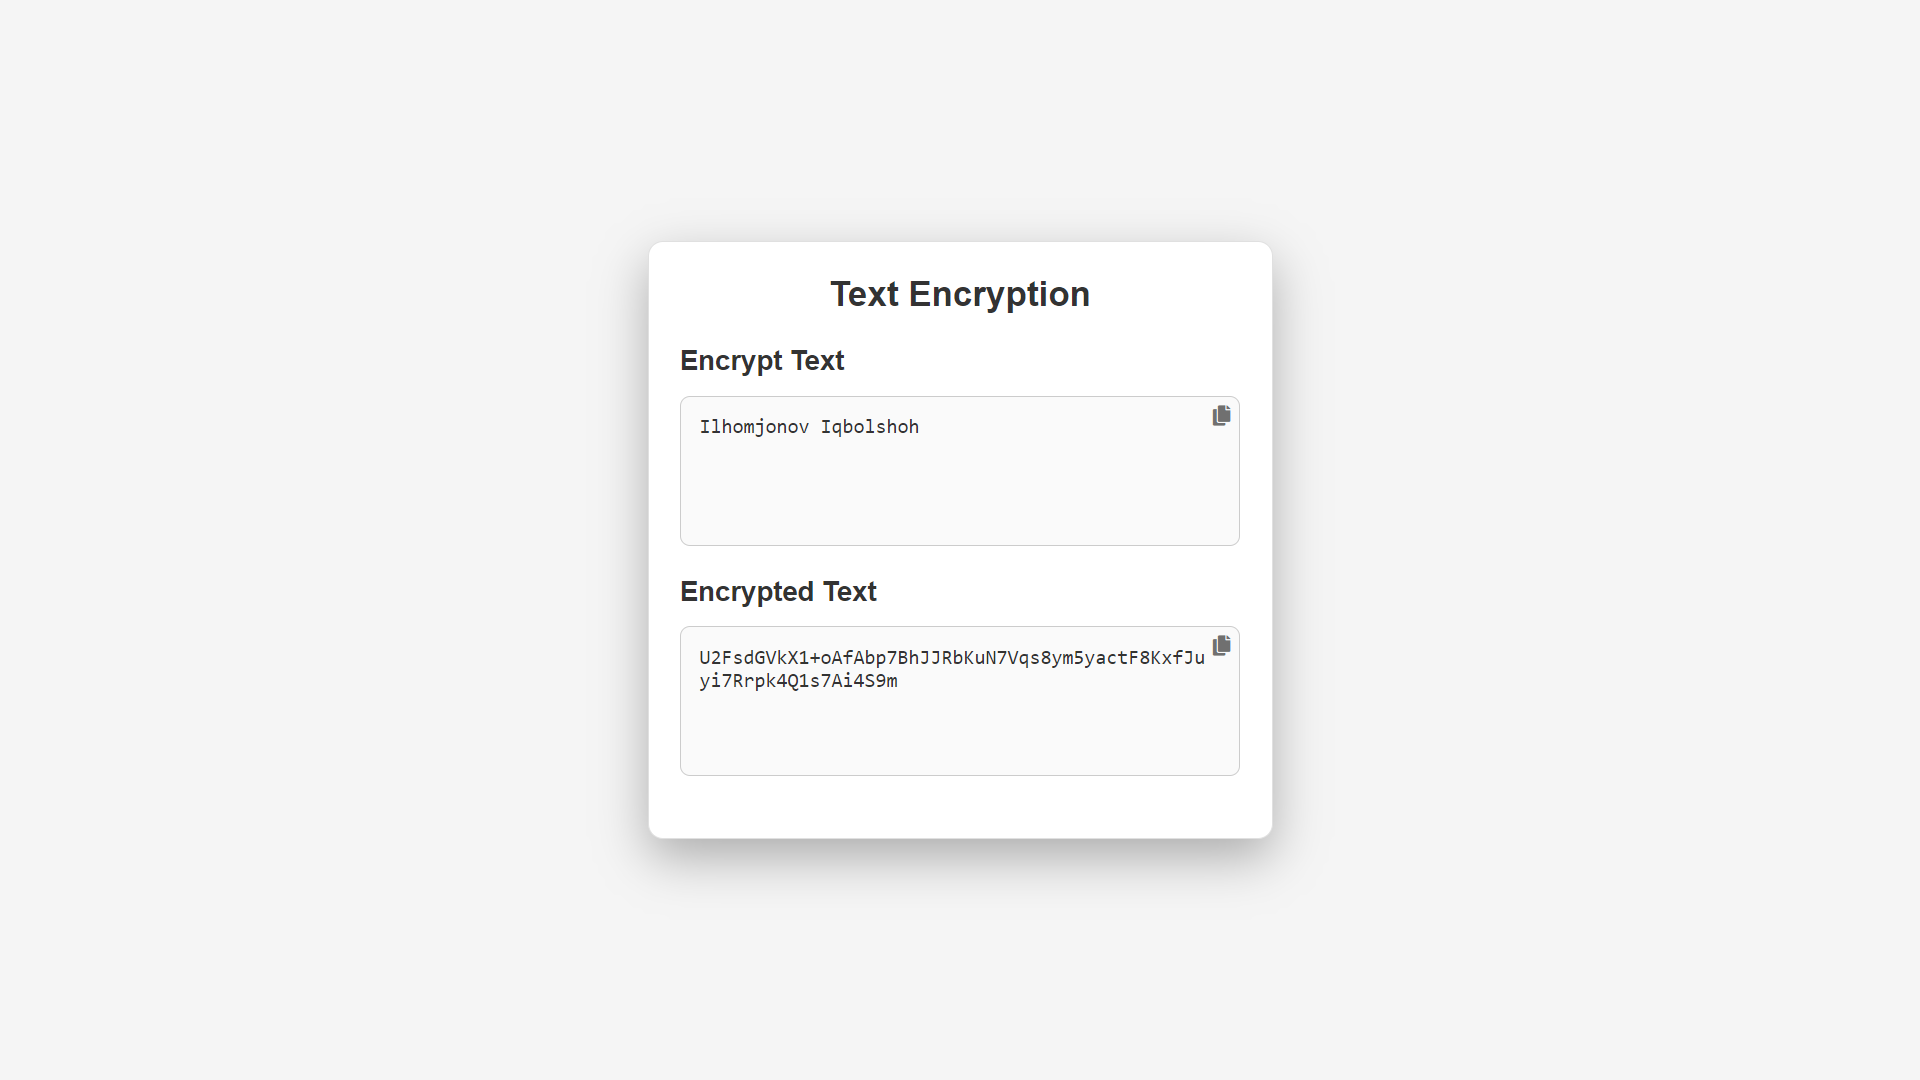
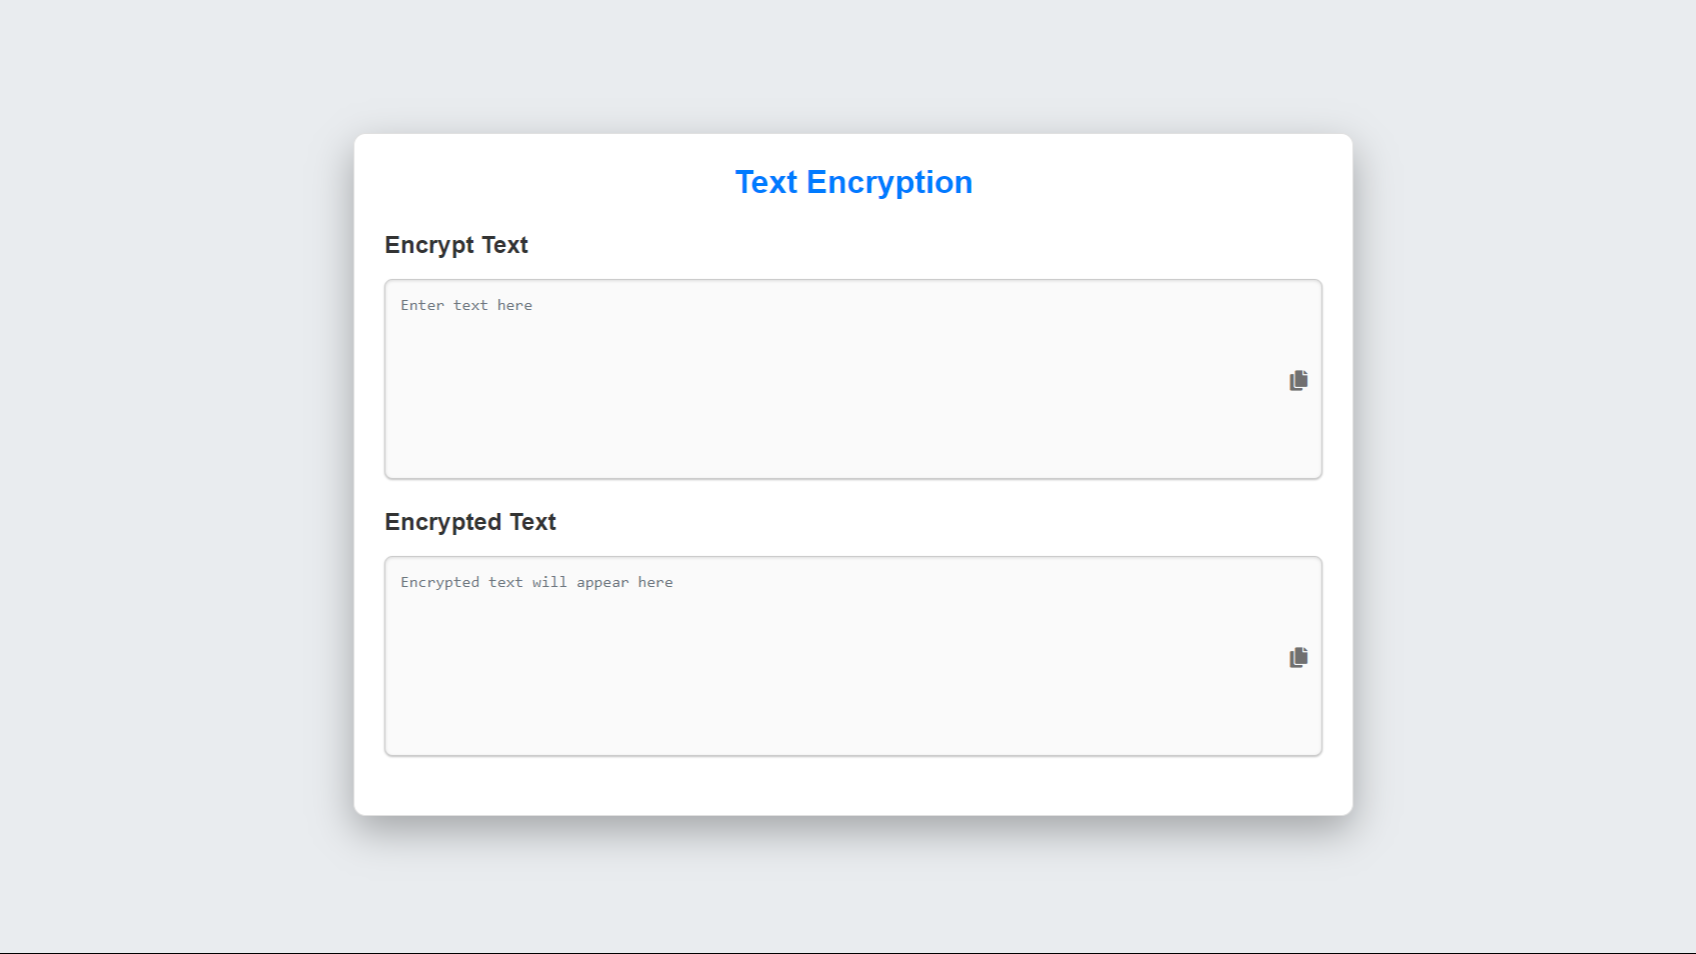
commit

diff --git a/style.css b/style.css
@@ -1,4 +1,3 @@
-/* General Reset */
 * {
     margin: 0;
     padding: 0;
@@ -7,7 +6,7 @@
 
 body {
     font-family: 'Arial', sans-serif;
-    background-color: #F5F5F5;
+    background-color: #E9ECEF;
     display: flex;
     justify-content: center;
     align-items: center;
@@ -17,48 +16,50 @@ body {
 
 .container {
     background-color: #FFFFFF;
-    padding: 25px;
+    padding: 30px;
     border-radius: 12px;
     box-shadow: 0 15px 40px rgba(0, 0, 0, 0.3);
-    max-width: 500px;
     width: 100%;
+    max-width: 1000px;
     border: 1px solid #E0E0E0;
 }
 
 h1 {
-    font-size: 28px;
+    font-size: 32px;
     text-align: center;
-    margin-bottom: 25px;
-    color: #333333;
+    margin-bottom: 30px;
+    color: #007BFF;
 }
 
 h2 {
-    font-size: 22px;
-    margin-bottom: 15px;
+    font-size: 24px;
+    margin-bottom: 20px;
     color: #333333;
 }
 
 .input-container {
     position: relative;
-    margin-bottom: 20px;
+    margin-bottom: 25px;
 }
 
 textarea {
     width: 100%;
-    padding: 15px 27px 15px 15px;
+    padding: 15px 40px 15px 15px;
     border-radius: 8px;
     border: 1px solid #CCCCCC;
     font-size: 16px;
     resize: none;
-    min-height: 120px;
+    min-height: 200px;
     background-color: #FAFAFA;
     color: #333333;
     transition: all 0.3s ease;
+    box-shadow: inset 0 1px 3px rgba(0, 0, 0, 0.12), 0 1px 2px rgba(0, 0, 0, 0.24);
 }
 
 textarea:focus {
     border-color: #007BFF;
     background-color: #FFFFFF;
+    box-shadow: inset 0 1px 3px rgba(0, 0, 0, 0.16), 0 0 0 2px rgba(0, 123, 255, .25);
 }
 
 textarea::placeholder {
@@ -67,38 +68,33 @@ textarea::placeholder {
 
 .copy-icon {
     position: absolute;
-    top: 8px;
-    right: 8px;
+    top: 50%;
+    right: 15px;
+    transform: translateY(-50%);
+    font-size: 20px;
     cursor: pointer;
     color: #707070;
-    transition: color 0.3s ease;
+    transition: color 0.3s ease, transform 0.3s ease;
 }
 
 .copy-icon:hover {
-    color: #0f0000;
+    color: #007BFF;
+    transform: translateY(-50%) scale(1.1);
 }
 
-/* Responsive Styles */
+/* Responsive design */
 @media (max-width: 768px) {
     .container {
         padding: 20px;
     }
 
     h1 {
-        font-size: 26px;
+        font-size: 28px;
+        margin-bottom: 20px;
     }
 
     h2 {
         font-size: 20px;
-    }
-
-    textarea {
-        font-size: 15px;
-        min-height: 100px;
-    }
-
-    .copy-icon {
-        right: 10px;
-        top: 10px;
+        margin-bottom: 15px;
     }
 }

diff --git a/index.html b/index.html
@@ -6,9 +6,9 @@
     <meta name="viewport" content="width=device-width, initial-scale=1.0">
     <script src="https://cdnjs.cloudflare.com/ajax/libs/crypto-js/3.1.9-1/crypto-js.js"></script>
     <link rel="stylesheet" href="https://cdnjs.cloudflare.com/ajax/libs/font-awesome/5.15.3/css/all.min.css">
-    <link rel="icon" href="./images/favicon.ico">
-    <link rel="stylesheet" href="./style.css">
     <title>Text Encryption</title>
+    <link rel="icon" href="./favicon.ico">
+    <link rel="stylesheet" href="./style.css">
 </head>
 
 <body>
